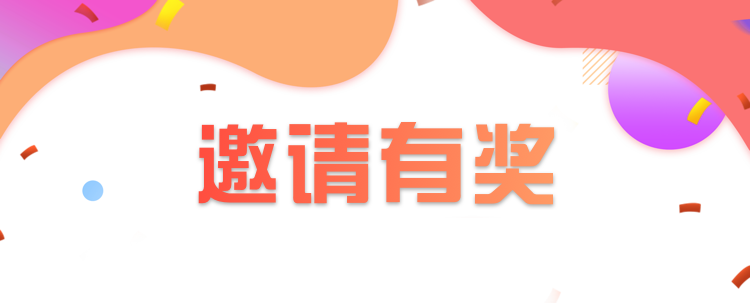
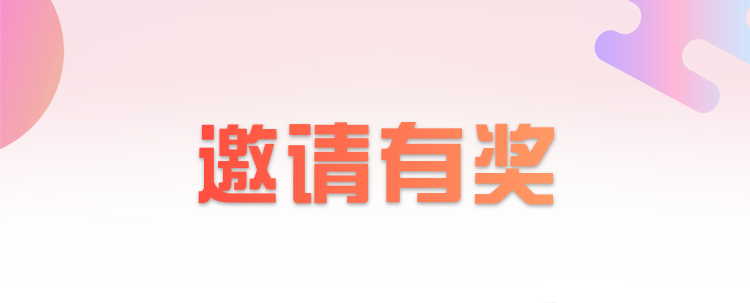
邀请有奖页

diff --git a/zhixinchain-wap/find-invite-hehuoren.html b/zhixinchain-wap/find-invite-hehuoren.html
@@ -17,17 +17,13 @@
             <div class="yaoqing-c1" style="background: url('public/images/find/yaoqing-1.png') center top no-repeat;background-size: 100% 100%;">
                 <div class="outer">
                     <p class="p-money">
-                        邀请好友加入福利保障，获得 <span>{{invite_money}}ZXT奖励</span>
+                        邀请好友加入健康保障，<span>获得合伙人收益</span>
                     </p>
-                    <div class="outer">
-                        <p class="p-uninvite" style="font-size: 0.13rem;line-height: 0.2rem;">
-                            奖励数量：<span style="color: #fe8159;">个人合伙人10% 机构合伙人25%</span>
-                        </p>
-                    </div>
+
                 </div>
             </div>
-            <div class="yaoqing-c2" style="background: url('public/images/find/yaoqing-2.png') center top no-repeat;background-size: 100% 100%;">
-                <div style="display:block;">
+            <div class="yaoqing-c2" >
+                <div style="display:none;">
                     <div class="outer">
                         <p class="p-id">
                             我的邀请码: <span>{{invite_id}}</span>
@@ -36,33 +32,30 @@
                     <!--邀请有奖按钮修改-加入 邀请-->
                     <div style="position: relative;margin: 0 auto; width: 2.7rem;">
                         <div class="btn" style="float: left;">
-                            <a href=""><button class="btn-invite" style="width: 1.3rem;">加入</button></a>
+                            <button class="btn-invite" style="width: 1.3rem;">加入</button>
                         </div>
                         <div class="btn" style="float: right;">
-                            <a href=""><button class="btn-invite" style="width: 1.3rem;">邀请</button></a>
+                           <button class="btn-invite" style="width: 1.3rem;">邀请</button>
                         </div>
                         <div style="clear: both;"></div>
                     </div>
 
                 </div>
-                <div style="display: none;">
-                    <div class="outer">
-                        <p class="p-uninvite" style="font-size: 0.13rem;padding-top:0.14rem;line-height: 0.2rem;">
-                            成为个人合伙人即可拥有邀请权限
-                            <br>
-                            如何成为个人合伙人：<span style="color: #fe8159;">2万ZXT，锁仓6个月</span>
-                        </p>
-                    </div>
+                <div style="display:block;">
+                    <!--<div class="outer">-->
+                        <!--<p class="p-uninvite" style="font-size: 0.13rem;padding-top:0.14rem;line-height: 0.2rem;">-->
+                            <!--成为个人合伙人即可拥有邀请权限-->
+                            <!--<br>-->
+                            <!--如何成为个人合伙人：<span style="color: #fe8159;">3万ZXT，锁仓3个月</span>-->
+                        <!--</p>-->
+                    <!--</div>-->
                     <div class="btn">
-                        <a href="" ><button class="btn-invite" style="width: 2.7rem; margin-top: 0.16rem;">成为个人合伙人</button></a>
-                    </div>
-                    <div class="btn">
-                        <a href="" ><button class="btn-invite" style="width: 2.7rem; margin-top: 0.16rem;">成为个人合伙人</button></a>
+                        <button class="btn-invite" style="width: 2.7rem; margin-top: 0.16rem;">成为个人合伙人</button>
                     </div>
                 </div>
 
             </div>
-            <div class="yaoqing-c3">
+            <div class="yaoqing-c3" style="display: none;">
                 <div class="btn">
                     <a href="" ><button class="btn-yeji" style="width: 2.7rem; ">我的业绩</button></a>
                 </div>
@@ -74,29 +67,42 @@
 
             <div class="title">
                 <img src="public/images/find/title.png">
-                <p>活动规则</p>
+                <p>个人合伙人方案</p>
             </div>
             <div class="text-content">
                 <div class="text-one">
                     <div class="dot"></div>
-                    <p>每邀请1名新用户加入健康保障，可获得相应数量ZXT奖励；</p>
+                    <p>健康保障服务收益：15% 人民币或以太币</p>
                 </div>
                 <div class="text-one">
                     <div class="dot"></div>
-                    <p>邀请奖励的ZXT，个人即时奖励，锁仓期3个月；机构每月1~3日结算，锁仓3个月，3个月到期后按照30%：30%：40%分3个月释放；</p>
+                    <p>职信链软件收益：25% 人民币。如赠送企业等值ZXT，则获15%ZXT奖励</p>
                 </div>
                 <div class="text-one">
                     <div class="dot"></div>
-                    <p>被邀请人加入福利保障时的信息如存在重复情况，不给予邀请人奖励；</p>
+                    <p>特权享受：享10万元半价囤币权。囤货期3个月内至少5倍卖出</p>
                 </div>
                 <div class="text-one">
                     <div class="dot"></div>
-                    <p>若发现骗取奖励行为，职信链有权取消、收回奖励金额并取消相关用户的用户资格；</p>
+                    <p>条件要求：持币ZXT3万个，锁仓期3个月</p>
                 </div>
                 <div class="text-one">
                     <div class="dot"></div>
-                    <p>职信链基金会保留对此活动的最终解释权。</p>
+                    <p>收益结算：每周1~3为结算日。如需发票，另行支付6%税金。收益将打到合伙人的收款账户中，合伙人可以在【我的业绩】中完善收款账户信息</p>
                 </div>
+                <div class="text-one">
+                    <div class="dot"></div>
+                    <p>被邀请人加入福利保障时的信息如存在重复情况，不给予邀请人奖励</p>
+                </div>
+                <div class="text-one">
+                    <div class="dot"></div>
+                    <p>若发现骗取奖励行为，职信链有权取消、收回奖励金额并取消相关用户的用户资格</p>
+                </div>
+                <div class="text-one">
+                    <div class="dot"></div>
+                    <p>职信链基金会保留对此活动的最终解释权</p>
+                </div>
+
 
             </div>
            <div style="height: 0.4rem;"></div>
